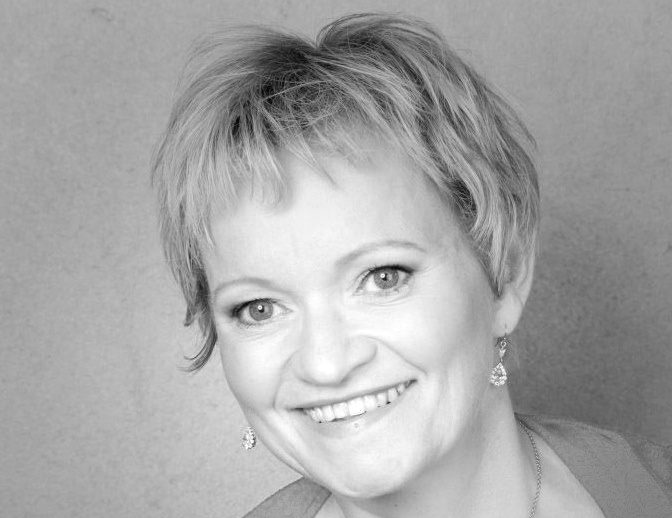
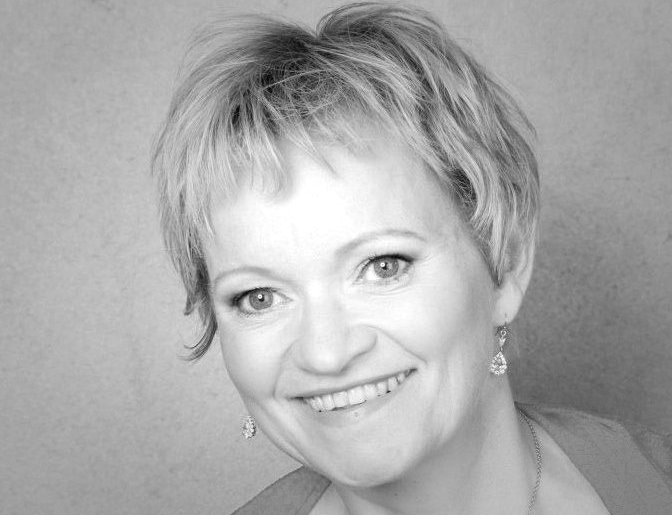
Added postSEO with correct images, compressed images, fixed GriegNightCircle

diff --git a/src/templates/post.jsx b/src/templates/post.jsx
@@ -12,7 +12,7 @@ import Controls from "../components/modules/Controls";
 import Media from "../components/modules/Media";
 import ConnectionsInPost from "../components/modules/ConnectionsInPost";
 import PageNotFound from '../pages/404';
-import GriegNightCircle2 from '../posts/img/GriegNightCircle2.png';
+import GriegNightCircle250 from '../posts/img/GriegNightCircle250.png';
 import PageImg from '../posts/img/GriegMinuttForMinutt.jpg';
 
 export default class PostTemplate extends React.Component {
@@ -71,7 +71,7 @@ export default class PostTemplate extends React.Component {
       } else {
         return (
           <div className="pageNotFound flex center column basePad" style={{height: '100%', width: '100%'}}>
-            <img src={GriegNightCircle2} alt="Grieg minutt for minutt logo" style={{height: "200px", marginBottom: "3rem"}}/>
+            <img src={GriegNightCircle250} alt="Grieg minutt for minutt logo" style={{height: "200px", marginBottom: "3rem"}}/>
             <div className="flex center column">
               <h2>Innholdet her er fortsatt hemmelig.</h2>
               <h2>Du må nok vente i spenning.</h2>
@@ -96,7 +96,7 @@ export default class PostTemplate extends React.Component {
                 <h4>{post.tags}</h4>
               </div>
               <div dangerouslySetInnerHTML={{ __html: postNode.html }} />
-              { post.medialink ? (<div className="mediaView"><Media title={post.title} medialink={post.medialink} /></div>) : ''}
+              { post.medialink ? (<div className="mediaView"><Media title={post.title} medialink={`${post.medialink}?rel=0`} /></div>) : ''}
               <div className="post-meta">
                 <PostTags tags={post.tags} />
                 {/* <SocialLinks postPath={slug} postNode={postNode} /> */}
@@ -118,7 +118,7 @@ export default class PostTemplate extends React.Component {
         <Helmet>
           <title>{post.category == "opus" ? `Op. ${post.title} | ${config.siteTitle}` : `${post.title} | ${config.siteTitle}`}</title>
         </Helmet>
-        <SEO postPath={slug} postNode={postNode} pageImg={PageImg} postSEO />
+        <SEO postPath={slug} postNode={postNode} postSEO pageImg={PageImg}/>
         <div className="postContent flex center column">
           {post.category === "opus" ? opusPost() : artistPost()}
         </div>

diff --git a/src/components/SEO/SEO.jsx b/src/components/SEO/SEO.jsx
@@ -4,7 +4,7 @@ import config from "../../../data/SiteConfig";
 
 class SEO extends Component {
   render() {
-    const { postNode, postPath, postSEO, pageImg, postSRC } = this.props;
+    const { postNode, postPath, postSEO, pageImg } = this.props;
     let title;
     let description;
     let image;
@@ -15,7 +15,7 @@ class SEO extends Component {
       description = postMeta.description
         ? postMeta.description
         : postNode.excerpt;
-      image = pageImg ? pageImg : config.siteLogo;
+      image = postMeta.thumbnail ? postMeta.thumbnail.childImageSharp.sizes.src : pageImg ;
       postURL = config.siteUrl + postPath;
     } else {
       title = config.siteTitle;
@@ -23,7 +23,7 @@ class SEO extends Component {
       image = pageImg ? pageImg : config.siteLogo;
     }
     const realPrefix = config.pathPrefix === "/" ? "" : config.pathPrefix;
-    image = pageImg ? image : config.siteUrl + realPrefix + image;
+    image = pageImg === image ? image : config.siteUrl + realPrefix + image;
     const blogURL = config.siteUrl + config.pathPrefix;
     const schemaOrgJSONLD = [
       {

diff --git a/src/components/modules/Nav.js b/src/components/modules/Nav.js
@@ -5,13 +5,13 @@ import MdList from 'react-icons/lib/md/list';
 import MdInfo from 'react-icons/lib/md/info-outline';
 import MdStar from "react-icons/lib/md/star-outline";
 import NavLink from 'gatsby-link';
-import PageImg from  '../../posts/img/GriegNightCircle2.png';
+import GriegNightCircle250 from  '../../posts/img/GriegNightCircle250.png';
 
 const Nav = ({showLangContent, handleLangClick, lang, showNav, handleNavClick, loc}) => {
   return(
     <nav className={showNav ? 'showing navigator flex column' : 'hidden navigator flex column'}>
       <div>
-        <span className="logo flex row"><img src={PageImg} /><p></p></span>
+        <span className="logo flex row"><img src={GriegNightCircle250} /><p></p></span>
         <ul>
           <li onClick={handleNavClick}>
             <NavLink exact to="/" activeClassName="active">

diff --git a/src/pages/404.jsx b/src/pages/404.jsx
@@ -1,12 +1,12 @@
 import React from 'react';
 import NavLink from 'gatsby-link';
-import GriegNightCircle2 from '../posts/img/GriegNightCircle2.png';
+import GriegNightCircle250 from '../posts/img/GriegNightCircle250.png';
 
 export default class PageNotFound extends React.Component {
   render = () => {
     return (
       <div className="base404 flex center column basePad" style={{height: '100%', width: '100%', backgroundColor: 'white'}}>
-        <img src={GriegNightCircle2} alt="Grieg minutt for minutt logo" style={{height: "200px", marginBottom: "4rem"}}/>
+        <img src={GriegNightCircle250} alt="Grieg minutt for minutt logo" style={{height: "200px", marginBottom: "4rem"}}/>
         <div className="flex center column">
           <h2>Innholdet her er fortsatt hemmelig.</h2>
           <h2>Du må nok vente i spenning.</h2>

diff --git a/data/SiteConfig.js b/data/SiteConfig.js
@@ -3,7 +3,7 @@ module.exports = {
   siteTitle: "Grieg | minutt for minutt", // Site title.
   siteTitleAlt: "Edvard Grieg, minutt for minutt, opus for opus", // Alternative site title for SEO.
   siteLogo: "/logos/logo-1024.png", // Logo used for SEO and manifest.
-  siteUrl: "http://griegminuttforminutt.no", // Domain of your website without pathPrefix.
+  siteUrl: "https://griegminuttforminutt.no", // Domain of your website without pathPrefix.
   pathPrefix: "/", // Prefixes all links. For cases when deployed to example.github.io/gatsby-advanced-starter/.
   siteDescription: "En presentasjon av Griegs musikalske produksjon, og en introduksjon av artistene som skal delta under NRK-sendingen 15. og 16. juni 2018", // Website description used for RSS feeds/meta description tag.
   siteRss: "/rss.xml", // Path to the RSS file.

diff --git a/src/components/modules/Starter.jsx b/src/components/modules/Starter.jsx
@@ -1,7 +1,7 @@
 import React from 'react';
 import Overcast from "./Overcast";
 import ZoomIn from "./ZoomIn";
-import PageImg from  '../../posts/img/GriegNightTrans.png';
+import GriegNightTrans from  '../../posts/img/GriegNightTrans.png';
 
 export default class Starter extends React.Component {
   state = {
@@ -33,7 +33,7 @@ export default class Starter extends React.Component {
       height: this.state.windowHeight / this.props.height
     }
     let backgroundStyle = {
-      backgroundImage: `url(${PageImg})`,
+      backgroundImage: `url(${GriegNightTrans})`,
     }
     return(
       <div className="starter flex column center basePad" style={starterHeight}>

diff --git a/src/pages/index.jsx b/src/pages/index.jsx
@@ -68,7 +68,7 @@ export const query = graphql`
       childImageSharp {
         # Specify the image processing steps right in the query
         # Makes it trivial to update as your page's design changes.
-        sizes(maxWidth: 1080, maxHeight: 1080, quality: 80) {
+        sizes(maxWidth: 250, maxHeight: 250, quality: 80) {
           ...GatsbyImageSharpSizes
         }
       }

diff --git a/src/posts/opus11.md b/src/posts/opus11.md
@@ -1,0 +1,26 @@
+---
+category: opus
+date: 2019-11-25T20:04:44.484Z
+title: '11'
+workname: I høst. Konsertouverture
+startDate: '15.6'
+location: 'Troldhaugen'
+composedin: '1867'
+dedicatedTo: 'Kong Karl XV av Sverige og Norge'
+description: Opus 11
+author: Monica Jangaard
+thumbnail: ./img/opus10.jpg
+artists:
+  - Kringkastingsorkestret
+tags:
+  - orkester
+---
+Under oppholdet i Roma skriver Grieg i dagboken 31. januar 1866 at han har «Fullført skisse til Ouverturen i D», altså «I høst», opus 11. Verket ble tilegnet kong Karl XV av Sverige og Norge.
+
+Karl XV (1826-1872) – morfar til Kong Haakon VII – ble kronet som konge i 1860, med seremonier i både Storkyrkan i Stockholm og i Nidarosdomen. Kongen var sterkt kunstinteressert, og kjent som en folkelig konge som ivret for Norges selvstendighet og for skandinavisk samarbeid. Under den dansk-preussiske krigen i 1864 arbeidet han for at Danmark skulle få hjelp fra de skandinaviske landene, men fikk ikke støtte for sitt syn. En rekke kunstnere engasjerte seg i saken, blant annet både Bjørnson og Ibsen, som mente Norge svek sitt naboland ved ikke å sende tropper, slik det i utgangspunktet var avtalt. Krigen endte som kjent med at Danmark måtte avstå Slesvig og Holstein til henholdsvis Preussen og Østerrike. Ibsen hadde allerede vist sitt syn i diktet «En broder i nød!» og senere skulle han gi tydelige utsagn om saken i Peer Gynt.
+
+Den dansk-preussiske krig var også et tema i Den skandinaviske forening i Roma mens Grieg vanket der. I Dagboken for 13. januar skriver Grieg at skolebestyrer Rovsing under en sammenkomst hadde «utbragt en skål i anledning av dagen (Den nordiske høytid, mindets og løftets dag), hvorpå Ibsen svarte med en tale, der vagte oppsikt». Ibsen hadde vist til løftene som hadde blitt gjort i de skandinaviske studentforeningene, og om «.. hvorledes hele ungdommen hadde svigtet, da nøden stod for døren». Ibsen ville «..på det instendigste tilråde at man opphørte å feire en fest som denne, under nærværende forhold.» Dette skapte selvsagt uro i forsamlingen, og Grieg skriver at «Efter en del meningsutvekslinger og krasse utbrudd skiltes man kl. 11.»
+
+Grieg fullførte altså skissen til «I høst» et par uker senere, og i mars noterer han seg at verket er fullført. Han tok den med til komponisten Gade da han kom til København senere på våren, men Gade ga verket det glatte lag: «Det er s’gu noget skidt, Grieg, gå hjem og lav noget bedre». Men ifølge Grieg hadde Gade bare kort tid senere «glemt hele stasen», da verket i 1867 fikk en førstepris i Det Svenske Akademi i Stockholm, der Gade var en av dommerne. (Griegs brev til Iver Holter 8. januar 1897)
+
+I 1887 ble verket orkestrert, og Grieg hadde det stadig med seg i konsertsalen på sine mange reiser.  

diff --git a/src/posts/artister/kringkastingsorkestret.md b/src/posts/artister/kringkastingsorkestret.md
@@ -1,0 +1,21 @@
+---
+category: artister
+title: Kringkastingsorkestret
+date: 2019-12-04T12:28:12.048Z
+thumbnail: ../img/Kringkastingsorkestret.jpg
+tags:
+  - orkester
+description: "Kringkastingsorkestret, det norske radioorkester"
+medialink: "https://www.youtube.com/embed/4T3PRVfbIP8"
+---
+Kringkastingsorkestret er et orkester på høyt internasjonalt nivå. Samtidig er det et fleksibelt orkester, som spiller alt fra det symfoniske repertoaret og samtidsmusikken, til pop, rock, jazz og folkemusikk. Blant siste års samarbeidspartnere kan vi nevne Kaizers Orchestra, Mari Boine, Jarle Bernhoft, Diamanda Galàs, René Fleming, Andrew Manze, Anna Netrebko, Gregory Porter m. fl. Hvert eneste år spiller Kringkastingsorkestret med de store stjernene på Nobel-konserten som sendes til millioner av seere verden over.
+
+Orkesteret er i dag fylt med de beste blant klassiske instrumentalister, musikere som setter allsidighet og lekenhet høyt, og med en sterk uvilje mot å dele musikken inn i båser. All musikk skal fremføres med samme høye kvalitet og engasjement.
+
+Kringkastingsorkestret ble til i 1946, da NRK ønsket å etablere sitt eget radioorkester. Øivind Bergh var orkesterets første dirigent, og han ledet orkesteret i en rekke folkekjære programmer fra NRKs Store studio, og la dermed grunnlaget for den populariteten som opp igjennom årene har gjort Kringkastingsorkestret til folkeeie. Kringkastingsorkestret er fortsatt til stede når store mediebegivenheter finner sted.
+
+Fra høsten 2013 er Miguel Harth-Bedoya orkesterets sjefdirigent. Han er utdannet på prestisjefylte Juillard, har lang fartstid som dirigent på en internasjonal arena og dirigerer jevnlig topporkestrene i alle verdensdeler. Han er også engasjert i prosjektet Caminos del Inka som fremmer både nyskrevet og eldre latin-amerikansk musikk. Dette er musikk KORK og Harth-Bedoya ved flere anledninger har presentert for et begeistret norsk publikum og noe som også kan oppleves på flere albumutgivelser med latin-amerikansk repertoar. I tillegg har Harth-Bedoya vist stor entusiasme for den norske musikkarven, og har også urfremført flere norske verk.
+
+Harth-Bedoya sier: «Samarbeidet med Kringkastingsorkestret har vært spennende og kraftfullt fra starten. Jeg ble veldig imponert over musikernes høye nivå, og orkesterets stilistiske allsidighet. Jeg visste med én gang at KORK og jeg var en god match.»
+
+Foto: Anna-Julia Granberg/Blunderbuss/NRK

diff --git a/src/posts/artister/henning-kraggerud.md b/src/posts/artister/henning-kraggerud.md
@@ -1,7 +1,7 @@
 ---
 category: artister
 title: Henning Kraggerud
-date: 2018-06-25T12:28:12.048Z
+date: 2019-06-25T12:28:12.048Z
 thumbnail: ../img/HenningKraggerud.jpg
 tags:
   - fiolinist

diff --git a/src/posts/artister/leif-ove-andsnes.md b/src/posts/artister/leif-ove-andsnes.md
@@ -1,7 +1,7 @@
 ---
 category: artister
 title: Leif Ove Andsnes
-date: 2018-06-25T12:28:12.048Z
+date: 2019-06-25T12:28:12.048Z
 thumbnail: ../img/LeifOveAndsnes.jpg
 tags:
   - pianist

diff --git a/src/posts/artister/liv-glaser.md b/src/posts/artister/liv-glaser.md
@@ -1,7 +1,7 @@
 ---
 category: artister
 title: Liv Glaser
-date: 2018-05-11T12:28:12.048Z
+date: 2019-05-11T12:28:12.048Z
 thumbnail: ../img/LivGlaser.jpg
 tags:
   - pianist
